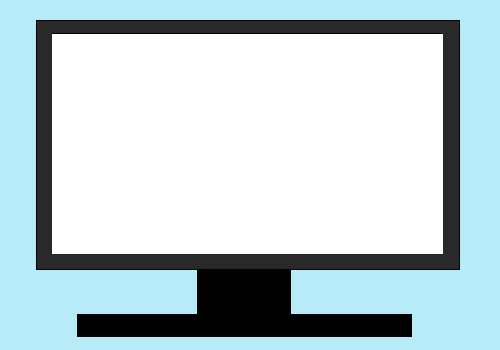
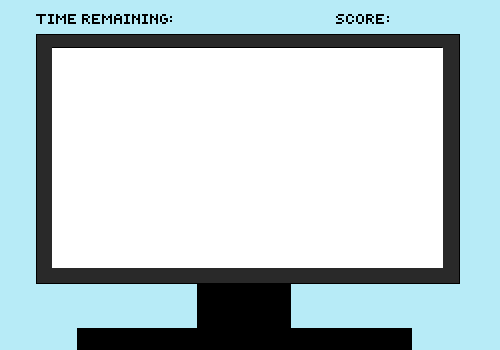
updated stuff

Changed region(s): [[0.06, 0.7143, 0.93, 0.8286], [0.06, 0.0286, 0.93, 0.1429], [0.15, 0.8857, 0.84, 1.0]]

diff --git a/Mind_Mastery.java b/Mind_Mastery.java
@@ -875,41 +875,25 @@ public class Mind_Mastery extends TimerTask implements KeyListener, ActionListen
             g.setFont(new Font("Arial", Font.BOLD, 22));
             g.drawString("Escape Level: ", 75, 464);
             g.setFont(new Font("Arial", Font.PLAIN, 20));
-            g.drawString("ok", 250, 463);
-            g.drawString("ok", 250, 490);
-            g.drawString("ok", 250, 517);
-            g.drawString("ok", 250, 544);
+            g.drawString("The Escape Level offers an exciting and challenging gameplay session where", 250, 463);
+            g.drawString("you must gain as many points as possible under a time limit. Objects will be", 250, 490);
+            g.drawString("travelling across the screen at different speeds, and the objects which are", 250, 517);
+            g.drawString("beneficial should be selected, such as 'Creating a Schedule'. Objects such as", 250, 544);
+            g.drawString("Objects such as a Phone will result in points being deducted.", 250, 571);
          } else if (state == 4) {
             Color mainMenuBG = new Color(40, 87, 173);
             g.setColor(mainMenuBG);
             g.fillRoundRect(50, 30, 900, 600, 50, 50);
             g.setColor(Color.WHITE);
             g.setFont(new Font("Arial", Font.BOLD, 22));
-            g.drawString("Credit Level: ", 75, 85);
+            g.drawString("Mind Mastery", 425, 85);
             g.setFont(new Font("Arial", Font.PLAIN, 20));
          
             g.drawString("Press Escape to return to the Main Menu", 315, 610);
          
-            g.drawString("ok", 250, 83);
-            g.drawString("ok", 250, 111);
-            g.drawString("ok", 250, 139);
-            g.drawString("ok", 250, 166);
-         
-            g.setFont(new Font("Arial", Font.BOLD, 22));
-            g.drawString("Maze Level: ", 75, 274);
-            g.setFont(new Font("Arial", Font.PLAIN, 20));
-            g.drawString("ok", 250, 273);
-            g.drawString("ok", 250, 300);
-            g.drawString("ok", 250, 327);
-            g.drawString("ok", 250, 354);
-         
-            g.setFont(new Font("Arial", Font.BOLD, 22));
-            g.drawString("Escape Level: ", 75, 464);
-            g.setFont(new Font("Arial", Font.PLAIN, 20));
-            g.drawString("ok", 250, 463);
-            g.drawString("ok", 250, 490);
-            g.drawString("ok", 250, 517);
-            g.drawString("ok", 250, 544);
+            g.drawString("Created by Caleb Chue and Shiv Kanade", 295, 123);
+            g.drawString("Caleb Chue: Program Development and Graphics", 261, 151);
+            g.drawString("Shiv Kanade: Program Development and Graphics", 260, 179);
          } else if (state == 9 || state == 31) { // level complete screen
             g.setColor(new Color(127,127,255));
             g.drawRect(0,0,SCREEN_WIDTH,SCREEN_HEIGHT);
@@ -962,7 +946,7 @@ public class Mind_Mastery extends TimerTask implements KeyListener, ActionListen
             image("FocusForgeActionLevel.png", SCREEN_WIDTH / 2, SCREEN_HEIGHT / 2 - 20, 1000, 700, g);
             g.setColor(Color.RED);
             g.setFont(new Font("Arial", Font.BOLD, 30));
-            g.drawString(score + " " + (time / 10), 30, 30);
+            g.drawString( (time / 10) + "                                                   " + score, 350, 28);
             time--;
             if (time <= 0) {
                state = 31;
